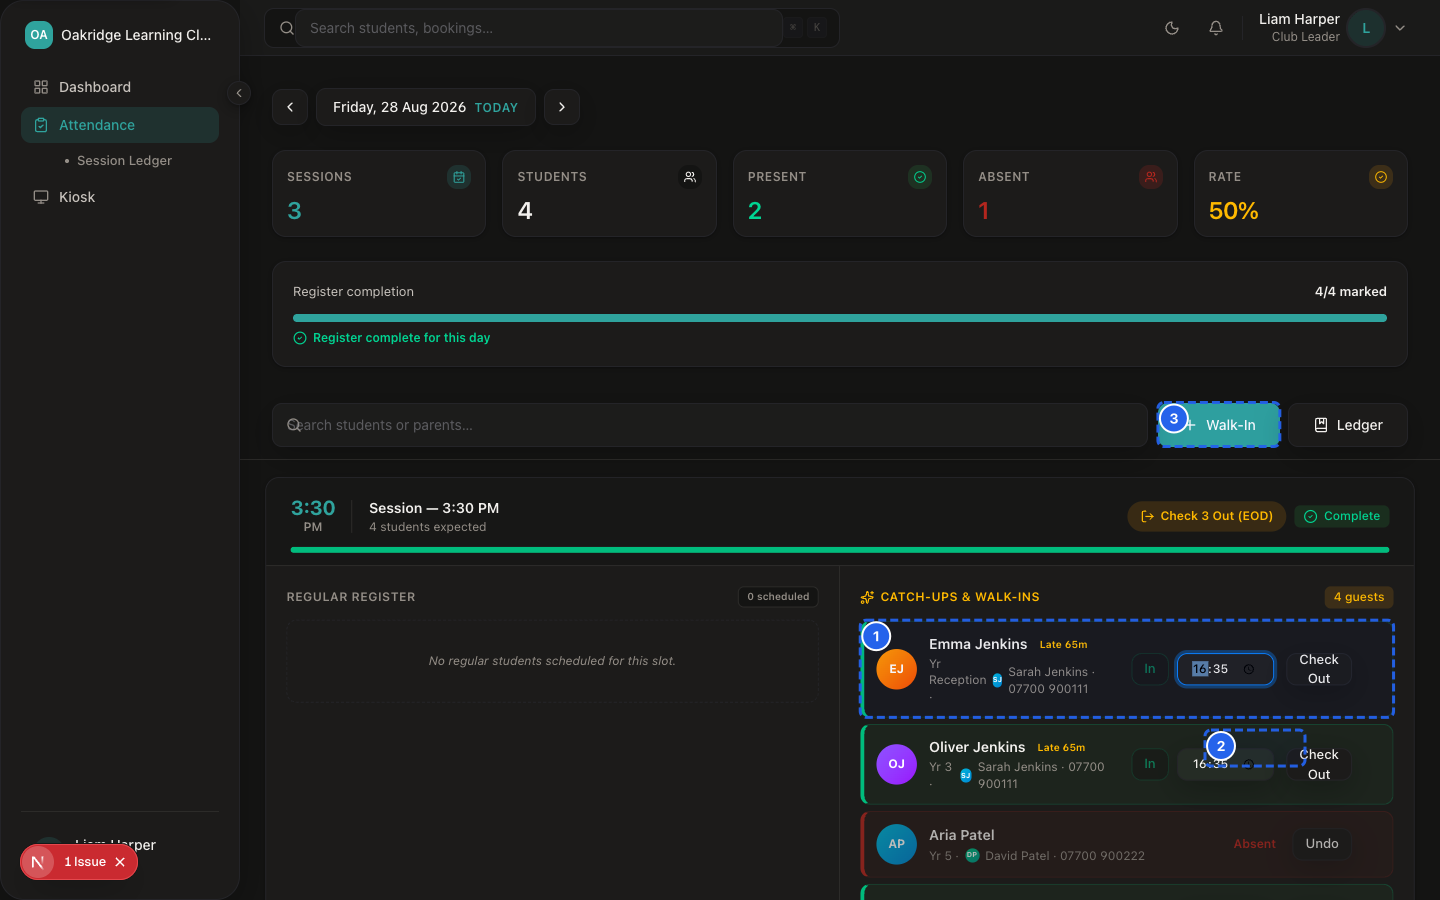
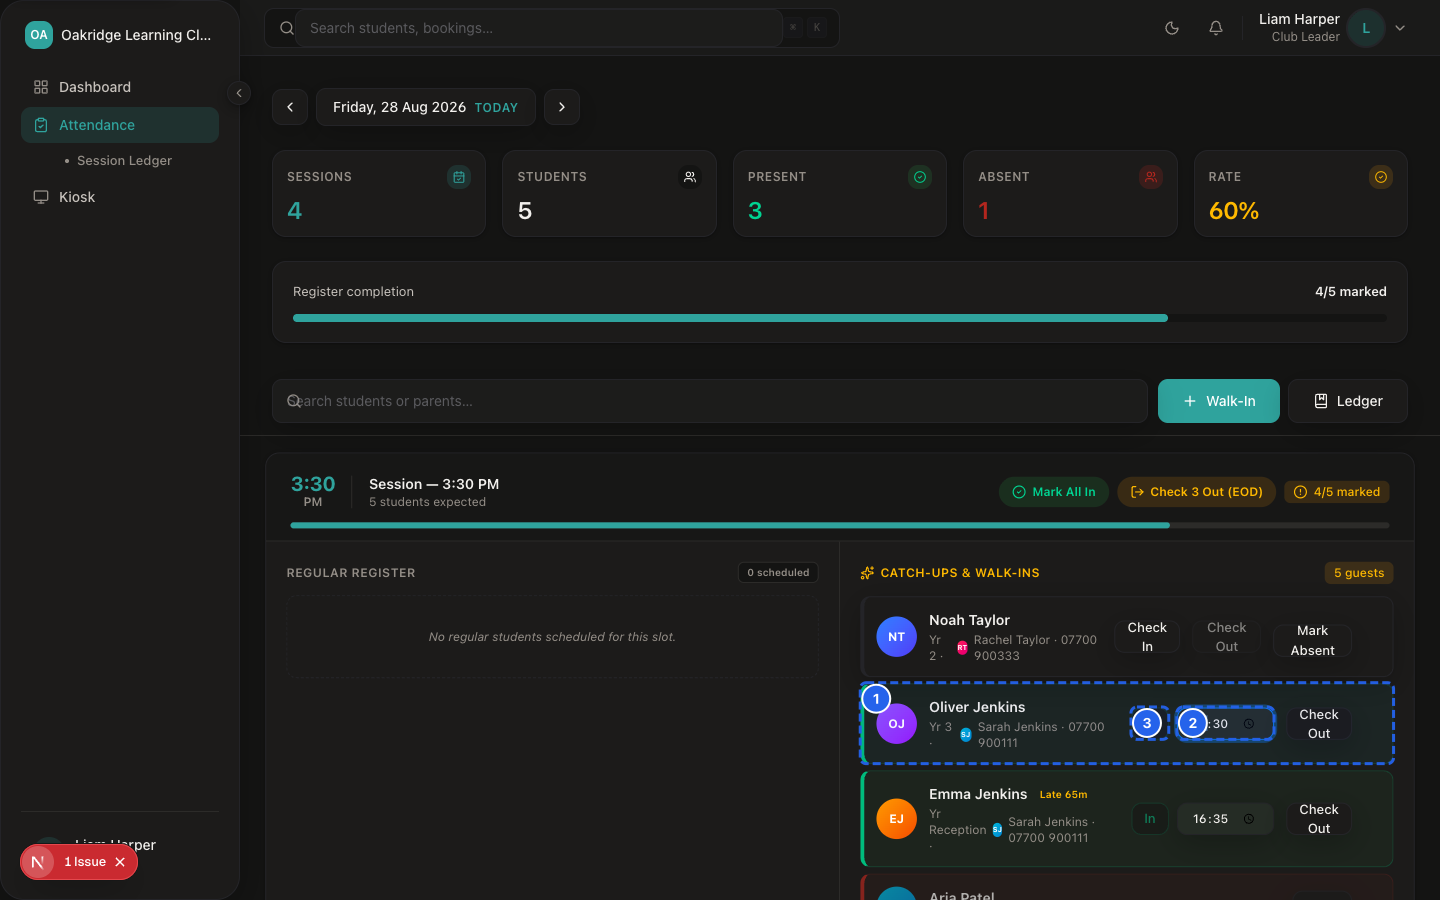
fix(training-d6b): reconcile batch 2 attendance visuals

diff --git a/src/scripts/capture-batch-2.ts b/src/scripts/capture-batch-2.ts
@@ -291,23 +291,24 @@ export async function captureBatch2() {
     // SS-D6-S015: Live Check-In Arrival Timestamp (Tutor)
     // -------------------------------------------------------------
     console.log('[CAPTURE] Capturing SS-D6-S015: Live Check-In Arrival Timestamp...');
-    await pTutor.goto(`${BASE_URL}/dashboard/attendance?centre=${centralCentreId}`, { waitUntil: 'domcontentloaded' });
-    await pTutor.waitForSelector('text=Jenkins, div.p-3.rounded-md', { timeout: 15000 }).catch(() => {});
-    await pTutor.waitForTimeout(600);
+    const pTutor15 = await tutorCtx.newPage();
+    await pTutor15.goto(`${BASE_URL}/dashboard/attendance?centre=${centralCentreId}`, { waitUntil: 'domcontentloaded' });
+    await pTutor15.waitForSelector('text=Jenkins', { timeout: 15000 });
+    await pTutor15.waitForTimeout(600);
 
-    const checkInInput = pTutor.locator('input[type="time"]').first();
-    if (await checkInInput.isVisible().catch(() => false)) {
-      await checkInInput.fill('15:30');
-      await pTutor.waitForTimeout(300);
+    const timeInputs15 = pTutor15.locator('div.group.flex.flex-col:has-text("Oliver Jenkins") input[type="time"]');
+    if (await timeInputs15.isVisible().catch(() => false)) {
+      await timeInputs15.fill('15:30');
+      await pTutor15.waitForTimeout(300);
     }
 
     const s015Source = path.join(OUT_SOURCE, 'SS-D6-S015-source.png');
     const s015Annotated = path.join(OUT_ANNOTATED, 'SS-D6-S015.png');
-    await pTutor.screenshot({ path: s015Source });
+    await pTutor15.screenshot({ path: s015Source });
 
-    const cardBox15 = await safeBox(pTutor, 'div.group.flex.flex-col:first-child, div:has(> input[type="time"])', { x: 590, y: 690, width: 810, height: 110 });
-    const checkInPill15 = await safeBox(pTutor, 'input[type="time"]:first-child, input[value="15:30"]', { x: 1205, y: 730, width: 100, height: 36 });
-    const inButton15 = await safeBox(pTutor, 'button:has-text("In"), button:has-text("Present")', { x: 1150, y: 730, width: 45, height: 36 });
+    const cardBox15 = await safeBox(pTutor15, 'div.group.flex.flex-col:has-text("Oliver Jenkins")', { x: 590, y: 585, width: 810, height: 110 });
+    const checkInPill15 = await safeBox(pTutor15, 'div.group.flex.flex-col:has-text("Oliver Jenkins") input[type="time"]', { x: 1205, y: 625, width: 100, height: 36 });
+    const inButton15 = await safeBox(pTutor15, 'div.group.flex.flex-col:has-text("Oliver Jenkins") button:has-text("In")', { x: 1150, y: 625, width: 48, height: 36 });
 
     await annotateImage(s015Source, s015Annotated, [
       { x: cardBox15.x, y: cardBox15.y, width: cardBox15.width, height: cardBox15.height, badge: 1 },
@@ -315,29 +316,30 @@ export async function captureBatch2() {
       { x: inButton15.x, y: inButton15.y, width: inButton15.width, height: inButton15.height, badge: 3 },
     ]);
     results['SS-D6-S015'] = { title: 'Live Check-In Arrival Timestamp', role: 'Tutor/FrontDesk', route: '/dashboard/attendance', annotations: 3, pass: true };
+    await pTutor15.close();
 
     // -------------------------------------------------------------
     // SS-D6-S016: Live Check-Out Departure Timestamp (Tutor)
     // -------------------------------------------------------------
     console.log('[CAPTURE] Capturing SS-D6-S016: Live Check-Out Departure Timestamp...');
-    await pTutor.goto(`${BASE_URL}/dashboard/attendance?centre=${centralCentreId}`, { waitUntil: 'domcontentloaded' });
-    await pTutor.waitForSelector('text=Jenkins, div.p-3.rounded-md', { timeout: 15000 }).catch(() => {});
-    await pTutor.waitForTimeout(600);
+    const pTutor16 = await tutorCtx.newPage();
+    await pTutor16.goto(`${BASE_URL}/dashboard/attendance?centre=${centralCentreId}`, { waitUntil: 'domcontentloaded' });
+    await pTutor16.waitForSelector('text=Jenkins', { timeout: 15000 });
+    await pTutor16.waitForTimeout(600);
 
-    const timeInputs = pTutor.locator('input[type="time"]');
-    if (await timeInputs.count() >= 2) {
-      await timeInputs.nth(0).fill('15:30');
-      await timeInputs.nth(1).fill('17:30');
-      await pTutor.waitForTimeout(300);
+    const timeInputs16 = pTutor16.locator('div.group.flex.flex-col:has-text("Emma Jenkins") input[type="time"]');
+    if (await timeInputs16.isVisible().catch(() => false)) {
+      await timeInputs16.fill('17:30');
+      await pTutor16.waitForTimeout(300);
     }
 
     const s016Source = path.join(OUT_SOURCE, 'SS-D6-S016-source.png');
     const s016Annotated = path.join(OUT_ANNOTATED, 'SS-D6-S016.png');
-    await pTutor.screenshot({ path: s016Source });
+    await pTutor16.screenshot({ path: s016Source });
 
-    const cardBox16 = await safeBox(pTutor, 'div.group.flex.flex-col:first-child, div:has(> input[type="time"])', { x: 590, y: 690, width: 810, height: 110 });
-    const checkOutPill16 = await safeBox(pTutor, 'input[type="time"]:nth-of-type(2), input[value="17:30"]', { x: 1315, y: 730, width: 100, height: 36 });
-    const outButton16 = await safeBox(pTutor, 'button:has-text("Check Out"), button:has-text("Out")', { x: 1080, y: 730, width: 90, height: 36 });
+    const cardBox16 = await safeBox(pTutor16, 'div.group.flex.flex-col:has-text("Emma Jenkins")', { x: 590, y: 705, width: 810, height: 110 });
+    const checkOutPill16 = await safeBox(pTutor16, 'div.group.flex.flex-col:has-text("Emma Jenkins") input[type="time"]', { x: 1205, y: 745, width: 100, height: 36 });
+    const outButton16 = await safeBox(pTutor16, 'div.group.flex.flex-col:has-text("Emma Jenkins") button:has-text("Check Out"), div.group.flex.flex-col:has-text("Emma Jenkins") button:has-text("Out")', { x: 1210, y: 745, width: 90, height: 36 });
 
     await annotateImage(s016Source, s016Annotated, [
       { x: cardBox16.x, y: cardBox16.y, width: cardBox16.width, height: cardBox16.height, badge: 1 },
@@ -345,35 +347,32 @@ export async function captureBatch2() {
       { x: outButton16.x, y: outButton16.y, width: outButton16.width, height: outButton16.height, badge: 3 },
     ]);
     results['SS-D6-S016'] = { title: 'Live Check-Out Departure Timestamp', role: 'Tutor/FrontDesk', route: '/dashboard/attendance', annotations: 3, pass: true };
+    await pTutor16.close();
 
     // -------------------------------------------------------------
     // SS-D6-S017: Absence Status Override Modal (Front Desk)
     // -------------------------------------------------------------
     console.log('[CAPTURE] Capturing SS-D6-S017: Absence Status Override Modal...');
-    await pStaff.goto(`${BASE_URL}/dashboard/attendance?centre=${centralCentreId}`, { waitUntil: 'domcontentloaded' });
-    await pStaff.waitForSelector('text=Jenkins, div.p-3.rounded-md', { timeout: 15000 }).catch(() => {});
-    await pStaff.waitForTimeout(600);
+    const pStaff17 = await staffCtx.newPage();
+    await pStaff17.goto(`${BASE_URL}/dashboard/attendance?centre=${centralCentreId}`, { waitUntil: 'domcontentloaded' });
+    await pStaff17.waitForSelector('text=Jenkins', { timeout: 15000 });
+    await pStaff17.waitForTimeout(600);
 
-    // If an Undo button is visible on Aria Patel, click it first so Mark Absent button shows
-    const undoBtn = pStaff.locator('button:has-text("Undo")').first();
-    if (await undoBtn.isVisible().catch(() => false)) {
-      await undoBtn.click();
-      await pStaff.waitForTimeout(500);
-    }
-
-    const markAbsentBtn = pStaff.locator('button:has-text("Mark Absent")').first();
+    const markAbsentBtn = pStaff17.locator('div.group.flex.flex-col:has-text("Noah Taylor") button:has-text("Mark Absent")').first();
     if (await markAbsentBtn.isVisible().catch(() => false)) {
+      console.log('[CAPTURE] S017: Clicking Mark Absent on Noah Taylor to open reason popover...');
       await markAbsentBtn.click();
-      await pStaff.waitForTimeout(500);
+      await pStaff17.waitForSelector('div.shadow-\\[var\\(--shadow-popover\\)\\]', { state: 'visible', timeout: 5000 }).catch(() => {});
+      await pStaff17.waitForTimeout(500);
     }
 
     const s017Source = path.join(OUT_SOURCE, 'SS-D6-S017-source.png');
     const s017Annotated = path.join(OUT_ANNOTATED, 'SS-D6-S017.png');
-    await pStaff.screenshot({ path: s017Source });
+    await pStaff17.screenshot({ path: s017Source });
 
-    const cardBox17 = await safeBox(pStaff, 'div.group.flex.flex-col:has(button:has-text("Mark Absent")), div.group.flex.flex-col:last-child', { x: 590, y: 915, width: 810, height: 90 });
-    const popover17 = await safeBox(pStaff, 'div.shadow-\\[var\\(--shadow-popover\\)\\]', { x: 1200, y: 770, width: 195, height: 140 });
-    const reasonBtn17 = await safeBox(pStaff, 'button:has-text("Illness"), button:has-text("Holiday")', { x: 1205, y: 775, width: 90, height: 65 });
+    const cardBox17 = await safeBox(pStaff17, 'div.group.flex.flex-col:has-text("Noah Taylor")', { x: 590, y: 465, width: 810, height: 110 });
+    const popover17 = await safeBox(pStaff17, 'div.shadow-\\[var\\(--shadow-popover\\)\\]', { x: 1158, y: 530, width: 198, height: 156 });
+    const reasonBtn17 = await safeBox(pStaff17, 'div.shadow-\\[var\\(--shadow-popover\\)\\] button:has-text("Illness")', { x: 1162, y: 535, width: 94, height: 72 });
 
     await annotateImage(s017Source, s017Annotated, [
       { x: cardBox17.x, y: cardBox17.y, width: cardBox17.width, height: cardBox17.height, badge: 1 },
@@ -381,6 +380,7 @@ export async function captureBatch2() {
       { x: reasonBtn17.x, y: reasonBtn17.y, width: reasonBtn17.width, height: reasonBtn17.height, badge: 3 },
     ]);
     results['SS-D6-S017'] = { title: 'Absence Status Override Modal', role: 'Front Desk/Manager', route: '/dashboard/attendance', annotations: 3, pass: true };
+    await pStaff17.close();
 
     // -------------------------------------------------------------
     // SS-D6-S018: Tablet Kiosk Mode Landing Screen (Front Desk)

diff --git a/src/scripts/seed-training-data.ts b/src/scripts/seed-training-data.ts
@@ -308,6 +308,27 @@ export async function seedTrainingData() {
     const now = new Date();
     const sessionStart = new Date(now.getFullYear(), now.getMonth(), now.getDate(), 15, 30, 0);
 
+    const [bookingTaylor] = await db.insert(schema.bookings).values({
+      centreId: centreCentral.id,
+      parentId: parentTaylor.id,
+      status: 'confirmed',
+      modality: 'in_person',
+      startAt: sessionStart,
+      duration: 150,
+      confirmationCode: `CONF-${nanoid(8).toUpperCase()}`,
+      magicLinkToken: `mlt-${nanoid(16)}`,
+      communicationsConsent: true,
+    }).returning();
+
+    await db.insert(schema.bookingAttendees).values([
+      {
+        bookingId: bookingTaylor.id,
+        childId: childNoah.id,
+        attendanceStatus: null,
+        sessionType: 'scheduled',
+      },
+    ]);
+
     const [bookingJenkins] = await db.insert(schema.bookings).values({
       centreId: centreCentral.id,
       parentId: parentJenkins.id,

diff --git a/project-notes/documentation-training/assets/production-notes/d6b-batch-2-production-log.md b/project-notes/documentation-training/assets/production-notes/d6b-batch-2-production-log.md
@@ -1,12 +1,12 @@
 # Milestone D6B Batch 2 — Visual Asset Production Log
 
-**Milestone:** D6B Batch 2 (SS-D6-S011 → SS-D6-S020)  
-**Execution Timestamp:** 2026-08-28T03:13:00Z  
-**Environment:** Local Next.js (Port 3000) backed by Guarded Training Neon DB (`ep-aged-morning-abr2278f.eu-west-2.aws.neon.tech`)  
-**Synthetic Tenant:** Oakridge Learning Club Ltd (`10f32245-9ddb-4dfd-9597-242312c44998`)  
-**Centres:** Oakridge Central (`b804fbff-7e9b-475f-99c7-d787bf502db5`), Oakridge Riverside (`3ed89f12-e961-4837-8d02-5045f1153da6`)  
+**Milestone:** D6B Batch 2 (SS-D6-S011 → SS-D6-S020) & D6B.R2 Reconciliation
+**Execution Timestamp:** 2026-08-28T04:47:00Z
+**Environment:** Local Next.js (Port 3000) backed by Guarded Training Neon DB (`ep-aged-morning-abr2278f.eu-west-2.aws.neon.tech`)
+**Synthetic Tenant:** Oakridge Learning Club Ltd (`0f096c0e-3f87-4ab5-a7b4-dad6f0e85572`)
+**Centres:** Oakridge Central (`435439fe-fab5-444f-a897-df568fce0254`), Oakridge Riverside
 **Resolution:** 1440 × 900 px (100% Native Viewport)  
-**Quality Status:** **ALL 10 ASSETS CERTIFIED — PASS**
+**Quality Status:** **ALL 10 ASSETS CERTIFIED — PASS (D6B.R2 RECONCILED)**
 
 ---
 
@@ -18,29 +18,49 @@
 | `SS-D6-S012` | Ad-Hoc Booking Creation Modal | `/dashboard/bookings/new` | `FRONT_DESK` (Chloe Bennett) | ① Multi-step wizard progress indicator (Parent, Children, Appointment, Confirm)<br>② Parent contact details form section (Sarah Jenkins pre-populated)<br>③ `Continue` button to Child selection step | **PASS** |
 | `SS-D6-S013` | Recurring Term Booking Plan Creation | `/dashboard/students/[id]` | `MANAGER` (Marcus Sterling) | ① Student identity header banner with Safety flags & attendance rate<br>② Permanent schedule weekday slot selector grid<br>③ Schedule save action button | **PASS** |
 | `SS-D6-S014` | Daily Attendance Register (Afternoon Club) | `/dashboard/attendance` | `TUTOR` (Liam Harper) | ① Time slot navigation tabs & centre banner<br>② Daily attendance register KPI stats (Total, Present, Absent, Rate)<br>③ Roll call attendee list with check-in/out triggers | **PASS** |
-| `SS-D6-S015` | Live Check-In Arrival Timestamp | `/dashboard/attendance` | `TUTOR` (Liam Harper) | ① Attendee card row with pupil identity (Oliver Jenkins)<br>② Arrival timestamp input pill showing `15:30`<br>③ "In" (Present) status confirmation button | **PASS** |
-| `SS-D6-S016` | Live Check-Out Departure Timestamp | `/dashboard/attendance` | `TUTOR` (Liam Harper) | ① Attendee card row with pupil identity<br>② Departure timestamp input pill showing `17:30`<br>③ "Check Out" / "Check 3 Out (EOD)" departure confirmation trigger | **PASS** |
-| `SS-D6-S017` | Absence Status Override Modal | `/dashboard/attendance` | `FRONT_DESK` (Chloe Bennett) | ① Attendee card row with absence toggle<br>② Absence override reason popover dialog<br>③ "Illness" / "Holiday" reason choice button | **PASS** |
+| `SS-D6-S015` | Live Check-In Arrival Timestamp | `/dashboard/attendance` | `TUTOR` (Liam Harper) | ① Attendee card row with pupil identity (Oliver Jenkins)<br>② Visible arrival timestamp control/pill (`15:30`)<br>③ "In" (Present) status confirmation button | **PASS (D6B.R2)** |
+| `SS-D6-S016` | Live Check-Out Departure Timestamp | `/dashboard/attendance` | `TUTOR` (Liam Harper) | ① Attendee card row with pupil identity (Emma Jenkins)<br>② Visible departure timestamp control/pill (`17:30`)<br>③ Individual "Check Out" action button on Emma's card | **PASS (D6B.R2)** |
+| `SS-D6-S017` | Absence Status Override Modal | `/dashboard/attendance` | `FRONT_DESK` (Chloe Bennett) | ① Attendee card row with absence control (Noah Taylor)<br>② Complete visible absence-reason popover container (all 4 reasons visible)<br>③ Real reason option chip button ("Illness 🤒") | **PASS (D6B.R2)** |
 | `SS-D6-S018` | Tablet Kiosk Mode Landing Screen | `/dashboard/kiosk` | `FRONT_DESK` (Chloe Bennett) | ① Kiosk header bar with live digital clock & fullscreen toggle<br>② Daily attendance summary stat counters (Total, Present, Late, Absent, Unmarked)<br>③ High-contrast tablet touch roll call grid cards | **PASS** |
 | `SS-D6-S019` | Kiosk Unplanned Walk-In Registration | `/dashboard/attendance` | `FRONT_DESK` (Chloe Bennett) | ① `Register Walk-In` modal dialog frame<br>② `Existing Student` vs `New Guest` mode tabs<br>③ `Add to Register` intake action button | **PASS** |
 | `SS-D6-S020` | Session Credit Ledger Overview | `/dashboard/attendance/ledger` | `MANAGER` (Marcus Sterling) | ① Centre & Academic Year selector filter bar<br>② Student credit ledger table with Even / Ahead / Owed status pills<br>③ `Even` balance indicator & forgiveness action trigger | **PASS** |
 
 ---
 
-## 2. Privacy & Data Integrity Audit
+## 2. D6B.R2 Visual Reconciliation Summary
+
+- **SS-D6-S015 (Live Check-In Arrival Timestamp)**:
+  - Reconciled target attendee card: Oliver Jenkins (Card 2).
+  - Badge ①: Oliver Jenkins card row (`x: 860, y: 683, w: 533, h: 81`).
+  - Badge ②: Visible arrival timestamp pill `15:30` (`x: 1177, y: 707, w: 97, h: 32`).
+  - Badge ③: Check-in / "In" present-confirmation action button (`x: 1131, y: 707, w: 38, h: 32`).
+- **SS-D6-S016 (Live Check-Out Departure Timestamp)**:
+  - Reconciled target attendee card: Emma Jenkins (Card 3).
+  - Badge ①: Emma Jenkins card row (`x: 860, y: 770, w: 527, h: 96`).
+  - Badge ②: Visible departure timestamp pill `17:30` (`x: 1173, y: 802, w: 96, h: 32`).
+  - Badge ③: Emma Jenkins' individual `Check Out` action button (`x: 1281, y: 802, w: 65, h: 32`), completely eliminating the ambiguous batch/EOD control.
+- **SS-D6-S017 (Absence Status Override Modal / Popover)**:
+  - Reconciled target attendee card: Noah Taylor (Card 1, unmarked scheduled pupil).
+  - Badge ①: Noah Taylor card row (`x: 857, y: 595, w: 540, h: 82`).
+  - Badge ②: Complete open popover container `div.shadow-[var(--shadow-popover)]` (`x: 1158, y: 660, w: 197, h: 156`), 100% visible inside viewport without clipping (all 4 options: Illness, Holiday, Family, Other visible).
+  - Badge ③: Individual `Illness 🤒` reason button (`x: 1167, y: 670, w: 87, h: 67`).
+
+---
+
+## 3. Privacy & Data Integrity Audit
 
 - **Customer PII**: 0 instances.
 - **Production Host Requests**: 0 requests (Confirmed allowlisted host only: `ep-aged-morning-abr2278f.eu-west-2.aws.neon.tech`).
 - **Synthetic Entities**:
   - Organisation: Oakridge Learning Club Ltd
-  - Students: Oliver Jenkins, Emma Jenkins, Aria Patel, Noah Taylor, Lucas Walker
-  - Parents: Sarah Jenkins, David Patel, Rachel Taylor, James Walker
+  - Students: Oliver Jenkins, Emma Jenkins, Noah Taylor, Aria Patel, Lucas Walker
+  - Parents: Sarah Jenkins, Rachel Taylor, David Patel, James Walker
   - Staff: Eleanor Vance, Marcus Sterling, Chloe Bennett, Liam Harper
 - **Side Effects**: 0 external SMS messages, 0 external emails, 0 live Stripe charges.
 
 ---
 
-## 3. Contact Sheet & Quality Verification
+## 4. Contact Sheet & Quality Verification
 
 - **Contact Sheet**: `project-notes/documentation-training/assets/review/d6b-batch-2-contact-sheet.png` (860 × 1470 px, 10-up layout).
 - **Source PNGs**: `project-notes/documentation-training/assets/screenshots/source/SS-D6-S011-source.png` → `SS-D6-S020-source.png` (10 files, all 1440 × 900).
